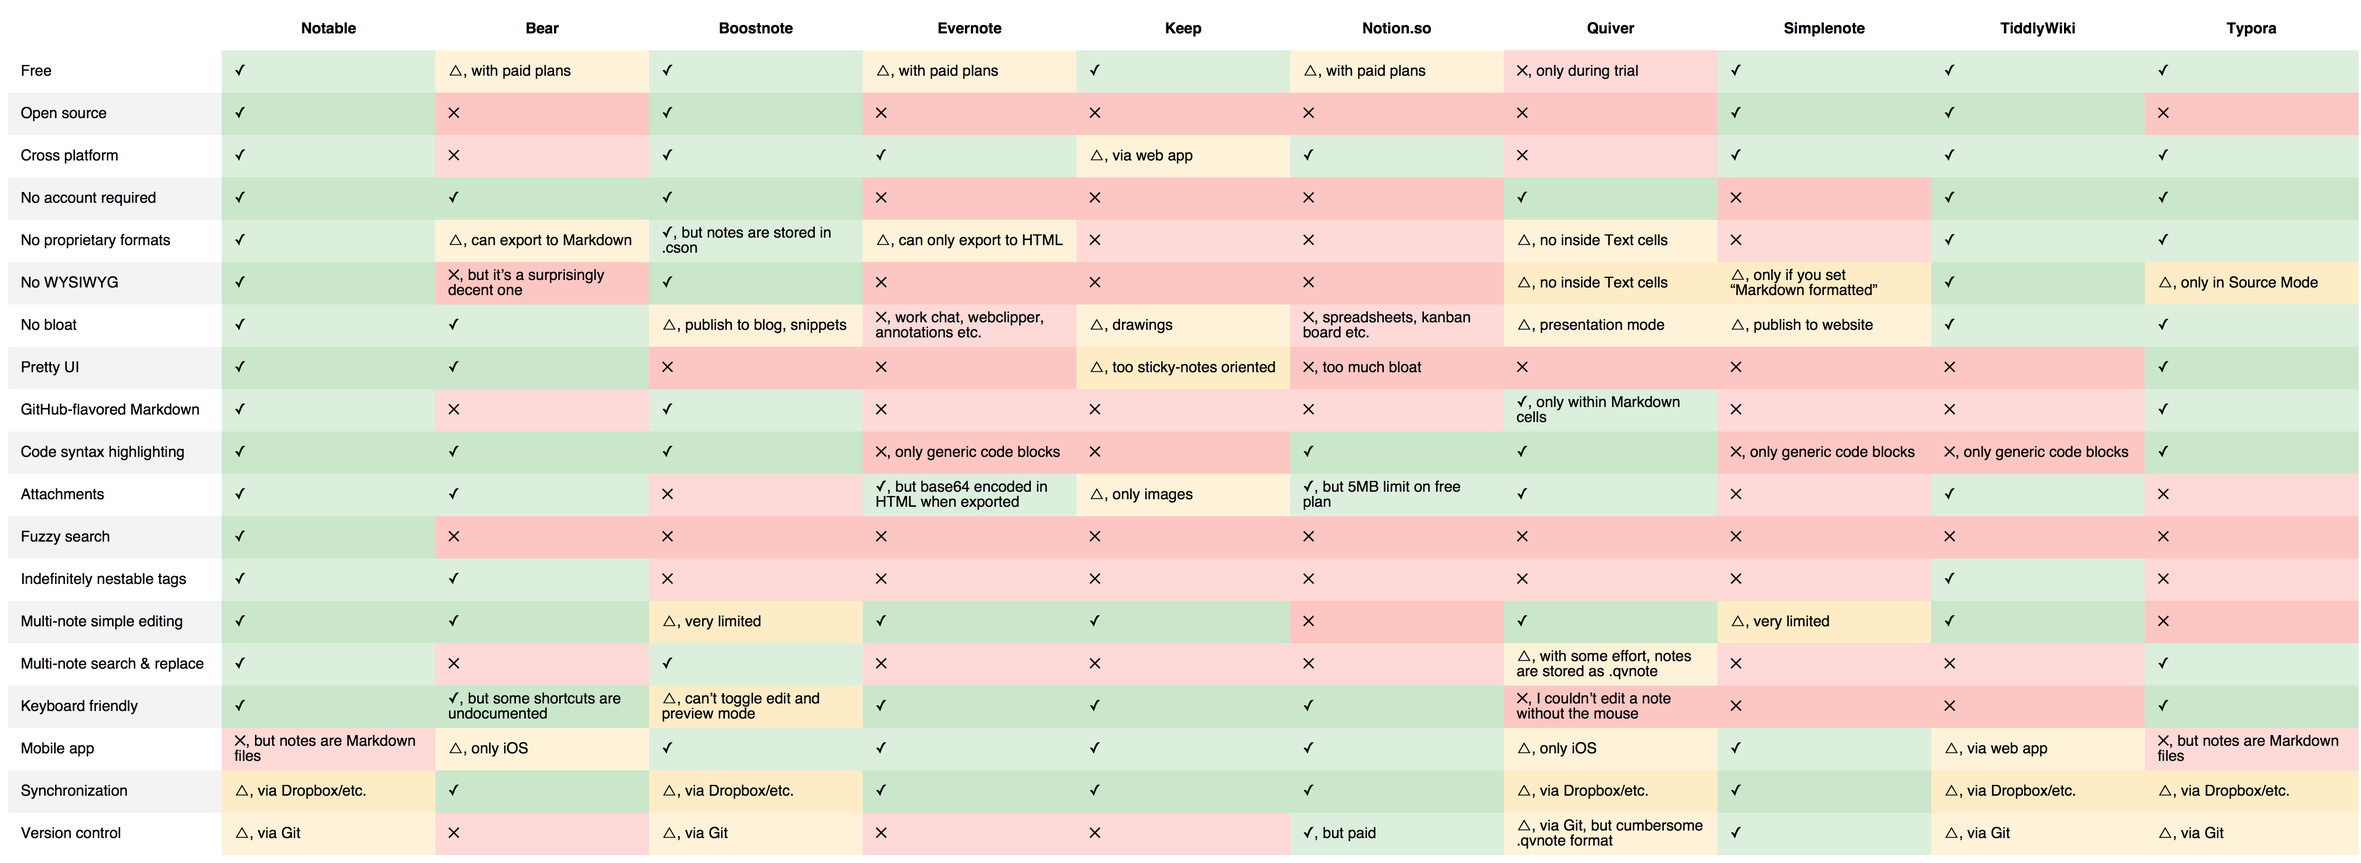
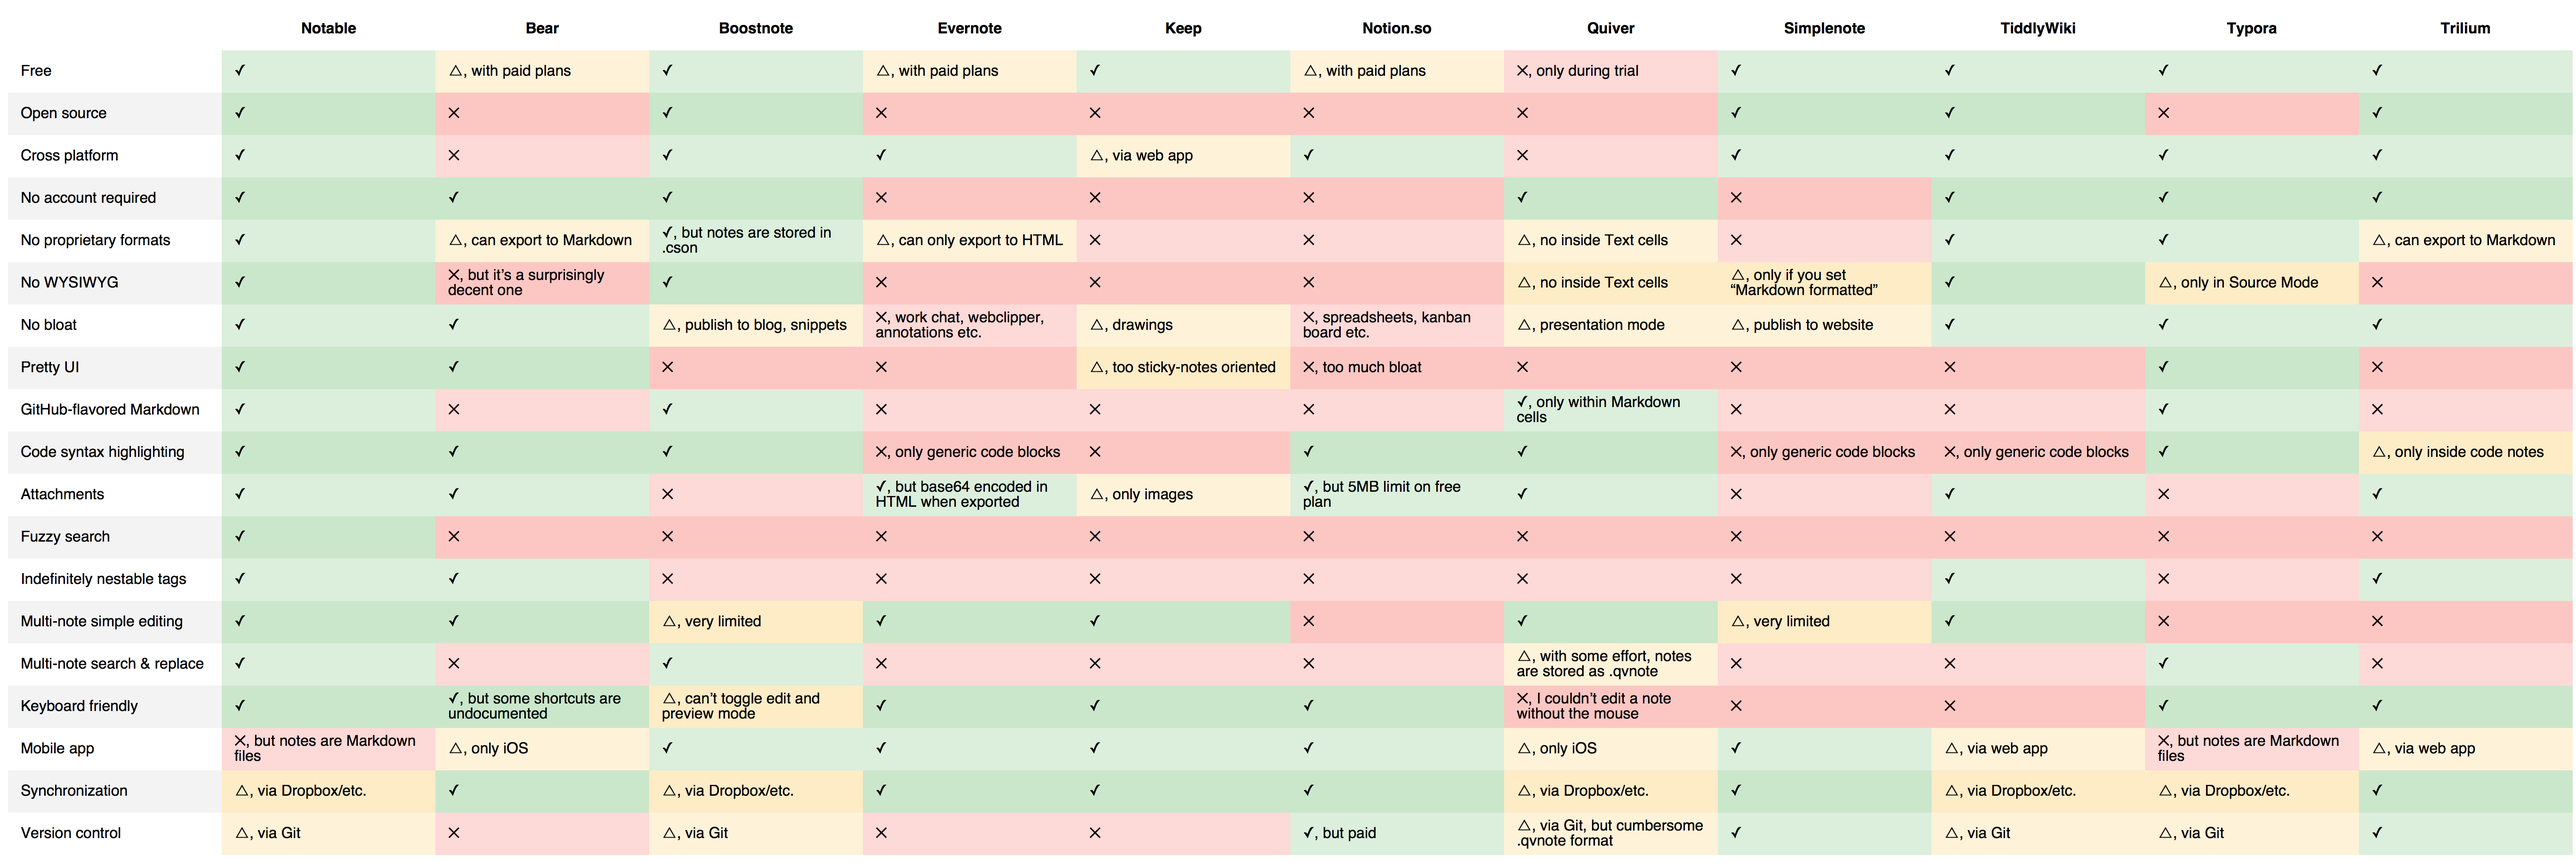
Added Trilium to the comparison table
Closes #263

diff --git a/resources/comparison/table.html b/resources/comparison/table.html
@@ -60,6 +60,7 @@
         <th>Simplenote</th> <!-- Simplenote -->
         <th>TiddlyWiki</th> <!-- TiddlyWiki -->
         <th>Typora</th> <!-- Typora -->
+        <th>Trilium</th> <!-- Trilium -->
       </tr>
     </thead>
     <tbody>
@@ -75,6 +76,7 @@
         <td class="Y">✓</td> <!-- Simplenote -->
         <td class="Y">✓</td> <!-- TiddlyWiki -->
         <td class="Y">✓</td> <!-- Typora -->
+        <td class="Y">✓</td> <!-- Trilium -->
       </tr>
       <tr>
         <td>Open source</td>
@@ -88,6 +90,7 @@
         <td class="Y">✓</td> <!-- Simplenote -->
         <td class="Y">✓</td> <!-- TiddlyWiki -->
         <td class="X">✕</td> <!-- Typora -->
+        <td class="Y">✓</td> <!-- Trilium -->
       </tr>
       <tr>
         <td>Cross platform</td>
@@ -101,6 +104,7 @@
         <td class="Y">✓</td> <!-- Simplenote -->
         <td class="Y">✓</td> <!-- TiddlyWiki -->
         <td class="Y">✓</td> <!-- Typora -->
+        <td class="Y">✓</td> <!-- Trilium -->
       </tr>
       <tr>
         <td>No account required</td>
@@ -114,6 +118,7 @@
         <td class="X">✕</td> <!-- Simplenote -->
         <td class="Y">✓</td> <!-- TiddlyWiki -->
         <td class="Y">✓</td> <!-- Typora -->
+        <td class="Y">✓</td> <!-- Trilium -->
       </tr>
       <tr>
         <td>No proprietary formats</td>
@@ -127,6 +132,7 @@
         <td class="X">✕</td> <!-- Simplenote -->
         <td class="Y">✓</td> <!-- TiddlyWiki -->
         <td class="Y">✓</td> <!-- Typora -->
+        <td class="W">△, can export to Markdown</td> <!-- Trilium -->
       </tr>
       <tr>
         <td>No WYSIWYG</td>
@@ -140,6 +146,7 @@
         <td class="W">△, only if you set “Markdown formatted”</td> <!-- Simplenote -->
         <td class="Y">✓</td> <!-- TiddlyWiki -->
         <td class="W">△, only in Source Mode</td> <!-- Typora -->
+        <td class="X">✕</td> <!-- Trilium -->
       </tr>
       <tr>
         <td>No bloat</td>
@@ -153,6 +160,7 @@
         <td class="W">△, publish to website</td> <!-- Simplenote -->
         <td class="Y">✓</td> <!-- TiddlyWiki -->
         <td class="Y">✓</td> <!-- Typora -->
+        <td class="Y">✓</td> <!-- Trilium -->
       </tr>
       <tr>
         <td>Pretty UI</td>
@@ -166,6 +174,7 @@
         <td class="X">✕</td> <!-- Simplenote -->
         <td class="X">✕</td> <!-- TiddlyWiki -->
         <td class="Y">✓</td> <!-- Typora -->
+        <td class="X">✕</td> <!-- Trilium -->
       </tr>
       <tr>
         <td>GitHub-flavored Markdown</td>
@@ -179,6 +188,7 @@
         <td class="X">✕</td> <!-- Simplenote -->
         <td class="X">✕</td> <!-- TiddlyWiki -->
         <td class="Y">✓</td> <!-- Typora -->
+        <td class="X">✕</td> <!-- Trilium -->
       </tr>
       <tr>
         <td>Code syntax highlighting</td>
@@ -192,6 +202,7 @@
         <td class="X">✕, only generic code blocks</td> <!-- Simplenote -->
         <td class="X">✕, only generic code blocks</td> <!-- TiddlyWiki -->
         <td class="Y">✓</td> <!-- Typora -->
+        <td class="W">△, only inside code notes</td> <!-- Trilium -->
       </tr>
       <tr>
         <td>Attachments</td>
@@ -205,6 +216,7 @@
         <td class="X">✕</td> <!-- Simplenote -->
         <td class="Y">✓</td> <!-- TiddlyWiki -->
         <td class="X">✕</td> <!-- Typora -->
+        <td class="Y">✓</td> <!-- Trilium -->
       </tr>
       <tr>
         <td>Fuzzy search</td>
@@ -218,6 +230,7 @@
         <td class="X">✕</td> <!-- Simplenote -->
         <td class="X">✕</td> <!-- TiddlyWiki -->
         <td class="X">✕</td> <!-- Typora -->
+        <td class="X">✕</td> <!-- Trilium -->
       </tr>
       <tr>
         <td>Indefinitely nestable tags</td>
@@ -231,6 +244,7 @@
         <td class="X">✕</td> <!-- Simplenote -->
         <td class="Y">✓</td> <!-- TiddlyWiki -->
         <td class="X">✕</td> <!-- Typora -->
+        <td class="Y">✓</td> <!-- Trilium -->
       </tr>
       <tr>
         <td>Multi-note simple editing</td>
@@ -244,6 +258,7 @@
         <td class="W">△, very limited</td> <!-- Simplenote -->
         <td class="Y">✓</td> <!-- TiddlyWiki -->
         <td class="X">✕</td> <!-- Typora -->
+        <td class="X">✕</td> <!-- Trilium -->
       </tr>
       <tr>
         <td>Multi-note search & replace</td>
@@ -257,6 +272,7 @@
         <td class="X">✕</td> <!-- Simplenote -->
         <td class="X">✕</td> <!-- TiddlyWiki -->
         <td class="Y">✓</td> <!-- Typora -->
+        <td class="X">✕</td> <!-- Trilium -->
       </tr>
       <tr>
         <td>Keyboard friendly</td>
@@ -270,6 +286,7 @@
         <td class="X">✕</td> <!-- Simplenote -->
         <td class="X">✕</td> <!-- TiddlyWiki -->
         <td class="Y">✓</td> <!-- Typora -->
+        <td class="Y">✓</td> <!-- Trilium -->
       </tr>
       <tr>
         <td>Mobile app</td>
@@ -283,6 +300,7 @@
         <td class="Y">✓</td> <!-- Simplenote -->
         <td class="W">△, via web app</td> <!-- TiddlyWiki -->
         <td class="X">✕, but notes are Markdown files</td> <!-- Typora -->
+        <td class="W">△, via web app</td> <!-- Trilium -->
       </tr>
       <tr>
         <td>Synchronization</td>
@@ -296,6 +314,7 @@
         <td class="Y">✓</td> <!-- Simplenote -->
         <td class="W">△, via Dropbox/etc.</td> <!-- TiddlyWiki -->
         <td class="W">△, via Dropbox/etc.</td> <!-- Typora -->
+        <td class="Y">✓</td> <!-- Trilium -->
       </tr>
       <tr>
         <td>Version control</td>
@@ -309,6 +328,7 @@
         <td class="Y">✓</td> <!-- Simplenote -->
         <td class="W">△, via Git</td> <!-- TiddlyWiki -->
         <td class="W">△, via Git</td> <!-- Typora -->
+        <td class="Y">✓</td> <!-- Trilium -->
       </tr>
     </tbody>
   </table>
